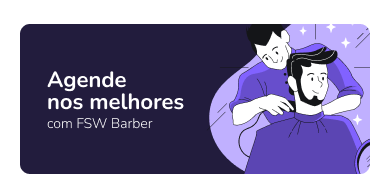
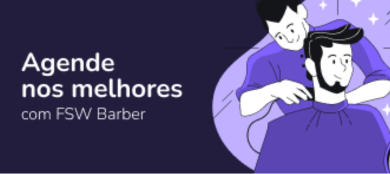
feat: add BarberShopItem component

diff --git a/app/page.tsx b/app/page.tsx
@@ -7,8 +7,12 @@ import Image from "next/image"
 import { Card, CardContent } from "./_components/ui/card"
 import { Badge } from "./_components/ui/badge"
 import { Avatar, AvatarImage } from "./_components/ui/avatar"
+import { db } from "./_lib/prisma"
+import BarbershopItem from "./_components/barbershop-item"
 
-const page = () => {
+const Home = async () => {
+  const barberShops = await db.barberShop.findMany({})
+
   return (
     <div>
       <Header />
@@ -30,16 +34,19 @@ const page = () => {
             src="/banner-01.png"
             alt="Agende com os melhores"
             fill
-            className="rounded-xl object-contain"
+            className="rounded-xl object-cover"
           />
         </div>
         {/* Agendamento */}
-        <Card className="mt-6">
+        <h2 className="mb-3 mt-6 text-xs font-bold uppercase text-gray-400">
+          Agendamentos
+        </h2>
+        <Card>
           <CardContent className="flex justify-between p-0">
             {/* Left */}
             <div className="flex flex-col gap-2 py-5 pl-5">
               <Badge className="w-fit">Confirmado</Badge>
-              <h3 className="font-semibold">Corte de Cabelo</h3>
+              <h3 className="font-bold">Corte de Cabelo</h3>
               <div className="flex items-center gap-2">
                 <Avatar className="h-6 w-6">
                   <AvatarImage src="https://conteudo.imguol.com.br/c/entretenimento/80/2017/04/25/a-atriz-zoe-saldana-como-neytiri-em-avatar-1493136439818_v2_3x4.jpg" />
@@ -55,9 +62,19 @@ const page = () => {
             </div>
           </CardContent>
         </Card>
+
+        {/* Recomendados */}
+        <h2 className="mb-3 mt-6 text-xs font-bold uppercase text-gray-400">
+          Recomendados
+        </h2>
+        <div className="flex gap-4 overflow-auto [&::-webkit-scrollbar]:hidden">
+          {barberShops.map((barberShop) => (
+            <BarbershopItem key={barberShop.id} barberShop={barberShop} />
+          ))}
+        </div>
       </div>
     </div>
   )
 }
 
-export default page
+export default Home

diff --git a/app/_components/barbershop-item.tsx b/app/_components/barbershop-item.tsx
@@ -1,0 +1,46 @@
+import { BarberShop } from "@prisma/client"
+import React from "react"
+import { Card, CardContent } from "./ui/card"
+import Image from "next/image"
+import { Button } from "./ui/button"
+import { Badge } from "./ui/badge"
+import { StarIcon } from "lucide-react"
+
+interface BarberShopItemProps {
+  barberShop: BarberShop
+}
+
+const BarbershopItem = ({ barberShop }: BarberShopItemProps) => {
+  return (
+    <Card className="min-w-[167px] rounded-2xl">
+      <CardContent className="p-0 px-1 pt-1">
+        {/* Image  */}
+        <div className="relative h-[159px] w-full">
+          <Image
+            fill
+            alt={barberShop.name}
+            className="rounded-2xl object-cover"
+            src={barberShop.imageUrl}
+          />
+          <Badge
+            className="absolute left-2 top-2 space-x-1"
+            variant="secondary"
+          >
+            <StarIcon size={12} className="fill-primary text-primary" />
+            <p className="teext-xs font-semibold">5.0</p>
+          </Badge>
+        </div>
+        {/* Text  */}
+        <div className="px-1 py-3">
+          <h3 className="truncate font-semibold">{barberShop.name}</h3>
+          <p className="truncate text-sm text-gray-400">{barberShop.address}</p>
+          <Button variant="secondary" className="mt-3 w-full">
+            Reservar
+          </Button>
+        </div>
+      </CardContent>
+    </Card>
+  )
+}
+
+export default BarbershopItem

diff --git a/app/_lib/prisma.ts b/app/_lib/prisma.ts
@@ -1,0 +1,20 @@
+import {PrismaClient} from '@prisma/client'
+
+declare global {
+    //eslint-disable-next-line
+    var cachedPrisma: PrismaClient
+}
+
+let prisma: PrismaClient
+
+if(process.env.NODE_ENV === 'production'){
+    prisma = new PrismaClient()
+}else{
+    if(!global.cachedPrisma) {
+        global.cachedPrisma = new PrismaClient()
+    }
+    prisma = global.cachedPrisma
+}
+
+
+export const db = prisma
